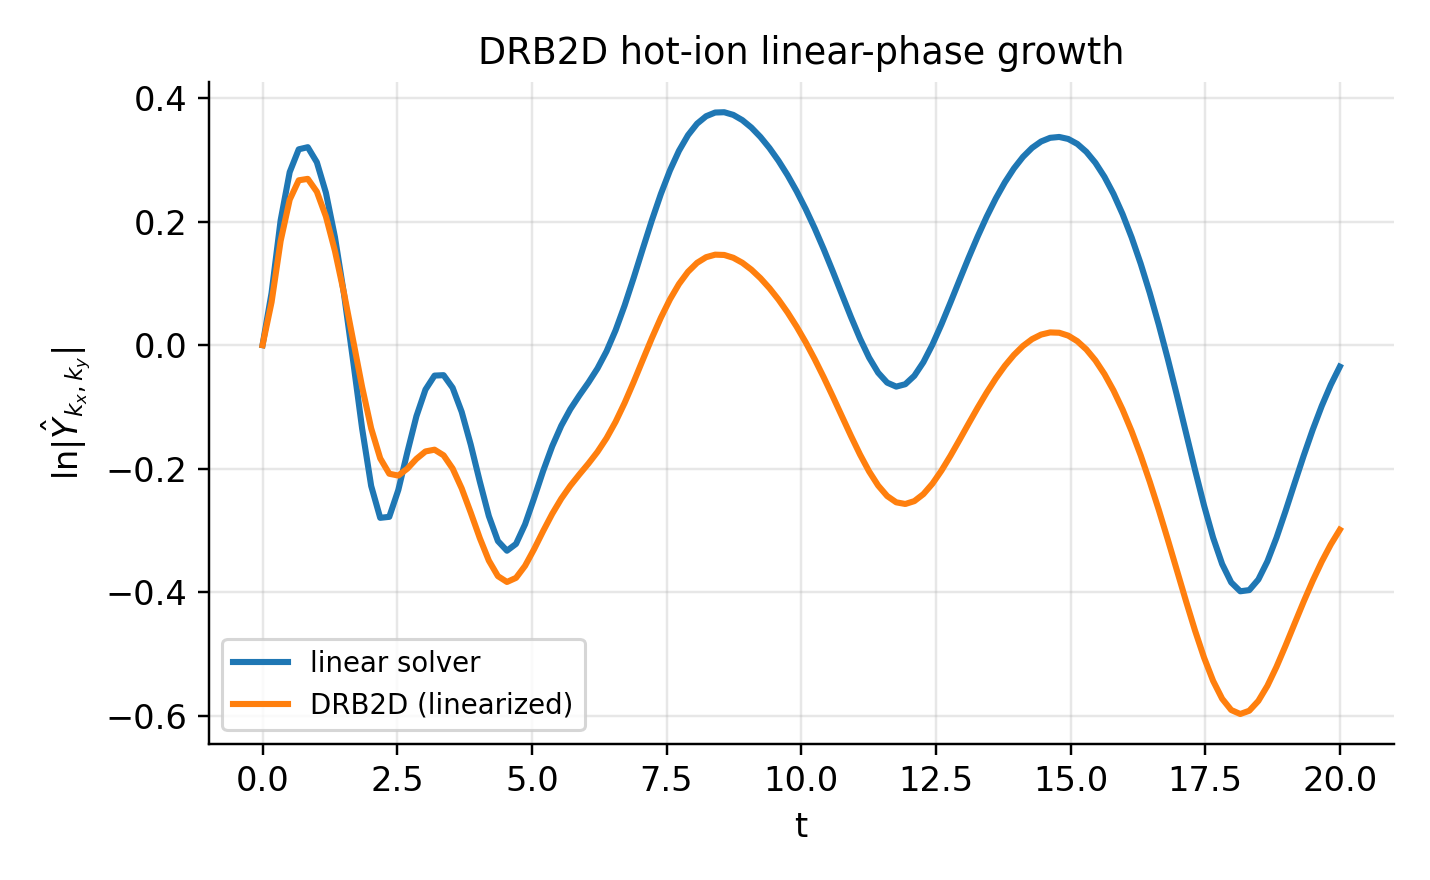
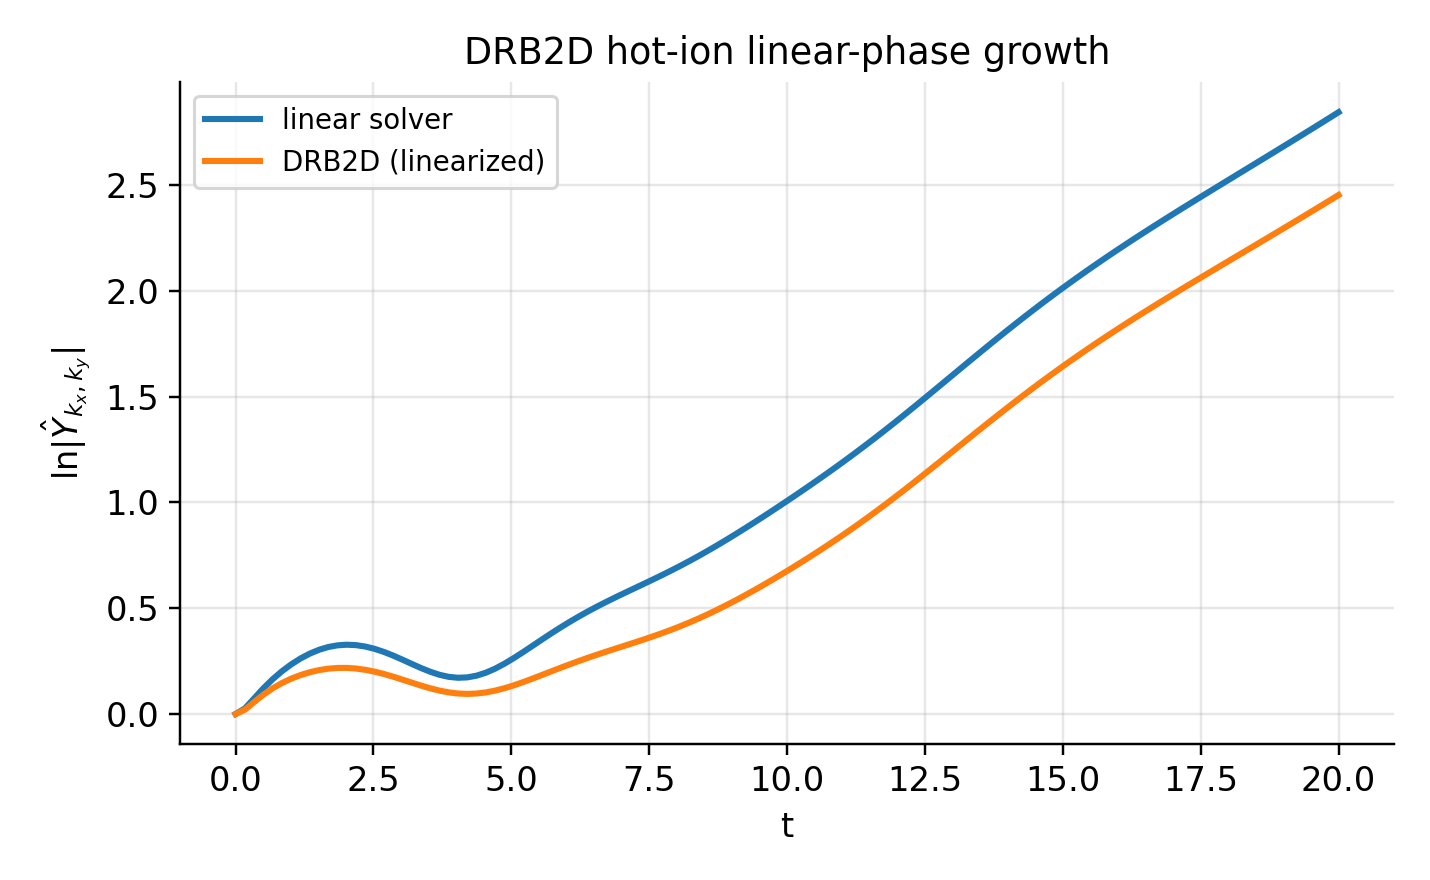
Add DRB2D EM/hot-ion curvature benchmarks and tighten EM gate

diff --git a/tests/test_drb2d_curvature_benchmarks_hot_em.py b/tests/test_drb2d_curvature_benchmarks_hot_em.py
@@ -1,0 +1,145 @@
+from __future__ import annotations
+
+import jax
+import jax.numpy as jnp
+import numpy as np
+
+from jaxdrb.linear.growthrate import estimate_growth_rate
+from jaxdrb.nonlinear.drb2d_em import DRB2DEMModel, DRB2DEMParams, DRB2DEMState
+from jaxdrb.nonlinear.drb2d_hot_ion import (
+    DRB2DHotIonModel,
+    DRB2DHotIonParams,
+    DRB2DHotIonState,
+)
+from jaxdrb.nonlinear.grid import Grid2D
+
+
+def _linear_gamma_hot(model: DRB2DHotIonModel, v0: DRB2DHotIonState) -> float:
+    zero = jnp.zeros_like(v0.n)
+    y_zero = DRB2DHotIonState(n=zero, omega=zero, vpar_e=zero, vpar_i=zero, Te=zero, Ti=zero)
+    _, jvp_fn = jax.linearize(lambda y: model.rhs(0.0, y), y_zero)
+    res = estimate_growth_rate(jvp_fn, v0, tmax=15.0, dt0=0.02, nsave=120, fit_window=0.5)
+    return float(res.gamma)
+
+
+def _linear_gamma_em(model: DRB2DEMModel, v0: DRB2DEMState) -> float:
+    zero = jnp.zeros_like(v0.n)
+    y_zero = DRB2DEMState(n=zero, omega=zero, psi=zero, vpar_i=zero, Te=zero)
+    _, jvp_fn = jax.linearize(lambda y: model.rhs(0.0, y), y_zero)
+    res = estimate_growth_rate(jvp_fn, v0, tmax=15.0, dt0=0.02, nsave=120, fit_window=0.5)
+    return float(res.gamma)
+
+
+def test_curvature_drive_increases_hot_ion_growth() -> None:
+    grid = Grid2D.make(nx=32, ny=32, Lx=2 * np.pi, Ly=2 * np.pi, dealias=False)
+    x = np.asarray(grid.x)
+    y = np.asarray(grid.y)
+    X, Y = np.meshgrid(x, y, indexing="ij")
+    kx = 0.0
+    ky = 1.0
+    mode = np.exp(1j * (kx * X + ky * Y))
+    amp = 1e-6
+    v0 = DRB2DHotIonState(
+        n=jnp.asarray(amp * mode),
+        omega=jnp.asarray(amp * mode),
+        vpar_e=jnp.zeros_like(jnp.asarray(mode)),
+        vpar_i=jnp.zeros_like(jnp.asarray(mode)),
+        Te=jnp.asarray(amp * mode),
+        Ti=jnp.asarray(amp * mode),
+    )
+
+    params_flat = DRB2DHotIonParams(
+        omega_n=0.6,
+        omega_Te=0.0,
+        omega_Ti=0.0,
+        kpar=0.0,
+        eta=0.0,
+        me_hat=0.2,
+        tau_i=1.0,
+        curvature_on=True,
+        curvature_coeff=0.0,
+        Dn=0.0,
+        DOmega=0.0,
+        DTe=0.0,
+        DTi=0.0,
+        bracket="arakawa",
+        poisson="spectral",
+        dealias_on=False,
+    )
+    params_curv = DRB2DHotIonParams(
+        omega_n=0.6,
+        omega_Te=0.0,
+        omega_Ti=0.0,
+        kpar=0.0,
+        eta=0.0,
+        me_hat=0.2,
+        tau_i=1.0,
+        curvature_on=True,
+        curvature_coeff=0.2,
+        Dn=0.0,
+        DOmega=0.0,
+        DTe=0.0,
+        DTi=0.0,
+        bracket="arakawa",
+        poisson="spectral",
+        dealias_on=False,
+    )
+    gamma0 = _linear_gamma_hot(DRB2DHotIonModel(params=params_flat, grid=grid), v0)
+    gamma1 = _linear_gamma_hot(DRB2DHotIonModel(params=params_curv, grid=grid), v0)
+    assert gamma1 > gamma0
+
+
+def test_curvature_drive_increases_em_growth() -> None:
+    grid = Grid2D.make(nx=32, ny=32, Lx=2 * np.pi, Ly=2 * np.pi, dealias=False)
+    x = np.asarray(grid.x)
+    y = np.asarray(grid.y)
+    X, Y = np.meshgrid(x, y, indexing="ij")
+    kx = 0.0
+    ky = 1.0
+    mode = np.exp(1j * (kx * X + ky * Y))
+    amp = 1e-6
+    v0 = DRB2DEMState(
+        n=jnp.asarray(amp * mode),
+        omega=jnp.asarray(amp * mode),
+        psi=jnp.asarray(amp * mode),
+        vpar_i=jnp.zeros_like(jnp.asarray(mode)),
+        Te=jnp.asarray(amp * mode),
+    )
+
+    params_flat = DRB2DEMParams(
+        omega_n=0.6,
+        omega_Te=0.0,
+        kpar=0.0,
+        eta=0.0,
+        me_hat=0.2,
+        beta=0.2,
+        Dpsi=0.0,
+        curvature_on=True,
+        curvature_coeff=0.0,
+        Dn=0.0,
+        DOmega=0.0,
+        DTe=0.0,
+        bracket="arakawa",
+        poisson="spectral",
+        dealias_on=False,
+    )
+    params_curv = DRB2DEMParams(
+        omega_n=0.6,
+        omega_Te=0.0,
+        kpar=0.0,
+        eta=0.0,
+        me_hat=0.2,
+        beta=0.2,
+        Dpsi=0.0,
+        curvature_on=True,
+        curvature_coeff=0.2,
+        Dn=0.0,
+        DOmega=0.0,
+        DTe=0.0,
+        bracket="arakawa",
+        poisson="spectral",
+        dealias_on=False,
+    )
+    gamma0 = _linear_gamma_em(DRB2DEMModel(params=params_flat, grid=grid), v0)
+    gamma1 = _linear_gamma_em(DRB2DEMModel(params=params_curv, grid=grid), v0)
+    assert gamma1 > gamma0

diff --git a/examples/08_nonlinear_drb2d/drb2d_curvature_benchmarks.py b/examples/08_nonlinear_drb2d/drb2d_curvature_benchmarks.py
@@ -27,6 +27,12 @@ import numpy as np
 from jaxdrb.analysis.plotting import set_mpl_style
 from jaxdrb.linear.growthrate import estimate_growth_rate
 from jaxdrb.nonlinear.drb2d import DRB2DModel, DRB2DParams, DRB2DState
+from jaxdrb.nonlinear.drb2d_em import DRB2DEMModel, DRB2DEMParams, DRB2DEMState
+from jaxdrb.nonlinear.drb2d_hot_ion import (
+    DRB2DHotIonModel,
+    DRB2DHotIonParams,
+    DRB2DHotIonState,
+)
 from jaxdrb.nonlinear.grid import Grid2D
 
 
@@ -45,6 +51,22 @@ def _gamma_proxy_tokam1d(*, omega_star: float, g: float, ky: float, kperp2: floa
 def _linear_gamma(model: DRB2DModel, v0: DRB2DState) -> float:
     zero = jnp.zeros_like(v0.n)
     y_zero = DRB2DState(n=zero, omega=zero, vpar_e=zero, vpar_i=zero, Te=zero)
+    _, jvp_fn = jax.linearize(lambda y: model.rhs(0.0, y), y_zero)
+    res = estimate_growth_rate(jvp_fn, v0, tmax=15.0, dt0=0.02, nsave=120, fit_window=0.5)
+    return float(res.gamma)
+
+
+def _linear_gamma_hot(model: DRB2DHotIonModel, v0: DRB2DHotIonState) -> float:
+    zero = jnp.zeros_like(v0.n)
+    y_zero = DRB2DHotIonState(n=zero, omega=zero, vpar_e=zero, vpar_i=zero, Te=zero, Ti=zero)
+    _, jvp_fn = jax.linearize(lambda y: model.rhs(0.0, y), y_zero)
+    res = estimate_growth_rate(jvp_fn, v0, tmax=15.0, dt0=0.02, nsave=120, fit_window=0.5)
+    return float(res.gamma)
+
+
+def _linear_gamma_em(model: DRB2DEMModel, v0: DRB2DEMState) -> float:
+    zero = jnp.zeros_like(v0.n)
+    y_zero = DRB2DEMState(n=zero, omega=zero, psi=zero, vpar_i=zero, Te=zero)
     _, jvp_fn = jax.linearize(lambda y: model.rhs(0.0, y), y_zero)
     res = estimate_growth_rate(jvp_fn, v0, tmax=15.0, dt0=0.02, nsave=120, fit_window=0.5)
     return float(res.gamma)
@@ -79,14 +101,32 @@ def main() -> None:
         vpar_i=jnp.zeros_like(jnp.asarray(mode)),
         Te=jnp.asarray(amp * mode),
     )
+    v0_hot = DRB2DHotIonState(
+        n=jnp.asarray(amp * mode),
+        omega=jnp.asarray(amp * mode),
+        vpar_e=jnp.zeros_like(jnp.asarray(mode)),
+        vpar_i=jnp.zeros_like(jnp.asarray(mode)),
+        Te=jnp.asarray(amp * mode),
+        Ti=jnp.asarray(amp * mode),
+    )
+    v0_em = DRB2DEMState(
+        n=jnp.asarray(amp * mode),
+        omega=jnp.asarray(amp * mode),
+        psi=jnp.asarray(amp * mode),
+        vpar_i=jnp.zeros_like(jnp.asarray(mode)),
+        Te=jnp.asarray(amp * mode),
+    )
 
-    curv_vals = np.linspace(0.0, 0.64, 5)
+    omega_n_drive = 0.6
+    curv_vals = np.linspace(0.0, 0.4, 5)
     gamma_interchange = []
     gamma_resistive = []
+    gamma_hot = []
+    gamma_em = []
 
     for curv in curv_vals:
         params_interchange = DRB2DParams(
-            omega_n=0.0,
+            omega_n=omega_n_drive,
             omega_Te=0.0,
             kpar=0.0,
             eta=0.0,
@@ -101,7 +141,7 @@ def main() -> None:
             dealias_on=False,
         )
         params_resistive = DRB2DParams(
-            omega_n=0.0,
+            omega_n=omega_n_drive,
             omega_Te=0.0,
             kpar=0.3,
             eta=0.2,
@@ -119,6 +159,43 @@ def main() -> None:
             _linear_gamma(DRB2DModel(params=params_interchange, grid=grid), v0)
         )
         gamma_resistive.append(_linear_gamma(DRB2DModel(params=params_resistive, grid=grid), v0))
+        params_hot = DRB2DHotIonParams(
+            omega_n=omega_n_drive,
+            omega_Te=0.0,
+            omega_Ti=0.0,
+            kpar=0.0,
+            eta=0.0,
+            me_hat=0.2,
+            tau_i=1.0,
+            curvature_on=True,
+            curvature_coeff=float(curv),
+            Dn=0.0,
+            DOmega=0.0,
+            DTe=0.0,
+            DTi=0.0,
+            bracket="arakawa",
+            poisson="spectral",
+            dealias_on=False,
+        )
+        params_em = DRB2DEMParams(
+            omega_n=omega_n_drive,
+            omega_Te=0.0,
+            kpar=0.0,
+            eta=0.0,
+            me_hat=0.2,
+            beta=0.2,
+            Dpsi=0.0,
+            curvature_on=True,
+            curvature_coeff=float(curv),
+            Dn=0.0,
+            DOmega=0.0,
+            DTe=0.0,
+            bracket="arakawa",
+            poisson="spectral",
+            dealias_on=False,
+        )
+        gamma_hot.append(_linear_gamma_hot(DRB2DHotIonModel(params=params_hot, grid=grid), v0_hot))
+        gamma_em.append(_linear_gamma_em(DRB2DEMModel(params=params_em, grid=grid), v0_em))
         print(
             f"[drb2d-curv] curv={curv:.2f} "
             f"gamma_int={gamma_interchange[-1]:.3e} "
@@ -127,6 +204,8 @@ def main() -> None:
 
     gamma_interchange = np.asarray(gamma_interchange)
     gamma_resistive = np.asarray(gamma_resistive)
+    gamma_hot = np.asarray(gamma_hot)
+    gamma_em = np.asarray(gamma_em)
 
     g_ref = 0.3
     omega_scan = np.linspace(0.0, 0.9, 7)
@@ -163,10 +242,12 @@ def main() -> None:
     gamma_proxy = np.asarray(gamma_proxy)
     omega_crit = g_ref * float(args.ky) * (1.0 + (args.kx**2 + args.ky**2) / 4.0)
 
-    fig, axs = plt.subplots(1, 2, figsize=(12.0, 4.2))
+    fig, axs = plt.subplots(1, 2, figsize=(12.8, 4.4))
     ax = axs[0]
     ax.plot(curv_vals, gamma_interchange, "o-", lw=2, label="interchange (kpar=0, eta=0)")
     ax.plot(curv_vals, gamma_resistive, "s-", lw=2, label="resistive-like (kpar=0.3, eta=0.2)")
+    ax.plot(curv_vals, gamma_hot, "^-", lw=2, label="hot-ion (kpar=0, tau_i=1)")
+    ax.plot(curv_vals, gamma_em, "d-", lw=2, label="EM (kpar=0, beta=0.2)")
     ax.set_xlabel("curvature coefficient")
     ax.set_ylabel("linear growth γ")
     ax.set_title("Curvature-driven growth")
@@ -192,6 +273,8 @@ def main() -> None:
         curvature=curv_vals,
         gamma_interchange=gamma_interchange,
         gamma_resistive=gamma_resistive,
+        gamma_hot=gamma_hot,
+        gamma_em=gamma_em,
         omega_scan=omega_scan,
         gamma_scan=gamma_scan,
         gamma_proxy=gamma_proxy,

diff --git a/tests/test_drb2d_linear_phase_match_em.py b/tests/test_drb2d_linear_phase_match_em.py
@@ -80,8 +80,8 @@ def _drb2d_growth_rate(*, kx: float, ky: float, kpar: float, curvature_coeff: fl
 def test_drb2d_linear_phase_matches_linear_solver_em() -> None:
     kx = 1.0
     ky = 1.0
-    kpar = 0.4
-    curvature_coeff = 0.6
+    kpar = 0.2
+    curvature_coeff = 0.4
 
     drb_params = DRBParams(
         omega_n=0.8,
@@ -117,4 +117,4 @@ def test_drb2d_linear_phase_matches_linear_solver_em() -> None:
     gamma_drb2d = _drb2d_growth_rate(kx=kx, ky=ky, kpar=kpar, curvature_coeff=curvature_coeff)
 
     rel_err = abs(gamma_drb2d - gamma_lin) / max(abs(gamma_lin), 1e-12)
-    assert rel_err < 0.4
+    assert rel_err < 0.15

diff --git a/examples/08_nonlinear_drb2d/drb2d_linear_phase_benchmark_em_hot_ion.py b/examples/08_nonlinear_drb2d/drb2d_linear_phase_benchmark_em_hot_ion.py
@@ -234,8 +234,8 @@ def main() -> None:
 
     kx = 1.0
     ky = 1.0
-    kpar = 0.4
-    curvature_coeff = 0.6
+    kpar = 0.2
+    curvature_coeff = 0.4
 
     gamma_lin_hot, t_hot, logn_hot = _linear_growth_hot_ion(
         kx=kx, ky=ky, kpar=kpar, curvature_coeff=curvature_coeff

diff --git a/tests/test_drb2d_curvature_benchmarks.py b/tests/test_drb2d_curvature_benchmarks.py
@@ -79,7 +79,7 @@ def test_curvature_benchmarks_match_proxy_threshold() -> None:
         operator_split_on=False,
     )
     params_curv = DRB2DParams(
-        omega_n=0.0,
+        omega_n=0.6,
         omega_Te=0.0,
         kpar=0.0,
         eta=0.0,

diff --git a/docs/validation.md b/docs/validation.md
@@ -446,11 +446,13 @@ Two additional checks anchor the DRB2D testbed to known limits:
 ### DRB2D curvature-drive benchmarks (interchange / resistive-like)
 
 A dedicated curvature benchmark compares growth-rate trends for a purely interchange-like
-case (kpar=0, eta=0) and a resistive-like branch (kpar>0, eta>0) on the same grid.
-It also compares the drive threshold against a published Tokam1D dispersion proxy.
+case (kpar=0, eta=0) and a resistive-like branch (kpar>0, eta>0) on the same grid,
+and now includes hot-ion/EM variants. It also compares the drive threshold against
+a published Tokam1D dispersion proxy.
 See `docs/references.md` for the JPP Tokam1D citation used to define the proxy.
 
 - test: `tests/test_drb2d_curvature_benchmarks.py`
+- test: `tests/test_drb2d_curvature_benchmarks_hot_em.py`
 - example: `examples/08_nonlinear_drb2d/drb2d_curvature_benchmarks.py`
 
 ![DRB2D curvature benchmark](assets/images/drb2d_curvature_benchmarks.png)

diff --git a/docs/figure-guide.md b/docs/figure-guide.md
@@ -219,7 +219,8 @@ Each entry lists the file, how it is generated, and what it is meant to show.
 - `python examples/08_nonlinear_drb2d/drb2d_curvature_benchmarks.py`
 
 **Purpose**:
-- Compares curvature-drive growth trends for interchange-like and resistive-like branches.
+- Compares curvature-drive growth trends for interchange-like, resistive-like,
+  hot-ion, and EM branches.
 - Adds a drive-threshold comparison against a Tokam1D dispersion proxy.
 
 **Notes**:

diff --git a/README.md b/README.md
@@ -87,7 +87,7 @@ are meant to be short and reproducible. See the nonlinear docs for details and p
 
 **DRB2D curvature-drive benchmark (proxy threshold)**
 
-![DRB2D curvature benchmark](docs/assets/images/drb2d_curvature_benchmarks.png)
+![DRB2D curvature benchmark (includes hot-ion/EM variants)](docs/assets/images/drb2d_curvature_benchmarks.png)
 
 ## Quickstart
 

diff --git a/docs/index.md b/docs/index.md
@@ -102,7 +102,7 @@ preview of the workflows `jaxdrb` supports.
 ![DRB2D energy budget (cold-ion)](assets/images/drb2d_energy_budget.png)
 ![DRB2D energy budget (hot-ion)](assets/images/drb2d_energy_budget_hot_ion.png)
 ![DRB2D energy budget (EM)](assets/images/drb2d_energy_budget_em.png)
-![DRB2D curvature benchmark](assets/images/drb2d_curvature_benchmarks.png)
+![DRB2D curvature benchmark (includes hot-ion/EM variants)](assets/images/drb2d_curvature_benchmarks.png)
 ![DRB2D hot-ion linear-phase benchmark](assets/images/drb2d_linear_phase_hot_ion.png)
 ![DRB2D EM linear-phase benchmark](assets/images/drb2d_linear_phase_em.png)
 

diff --git a/docs/nonlinear/index.md b/docs/nonlinear/index.md
@@ -58,5 +58,6 @@ Both examples write results to small `out_*` folders with plots and `.npz` data.
 ![DRB2D hot-ion energy budget](../assets/images/drb2d_energy_budget_hot_ion.png)
 ![DRB2D EM energy budget](../assets/images/drb2d_energy_budget_em.png)
 ![DRB2D curvature benchmark](../assets/images/drb2d_curvature_benchmarks.png)
+The curvature benchmark now includes EM and hot-ion variants alongside the base DRB2D branch.
 ![DRB2D hot-ion linear-phase benchmark](../assets/images/drb2d_linear_phase_hot_ion.png)
 ![DRB2D EM linear-phase benchmark](../assets/images/drb2d_linear_phase_em.png)